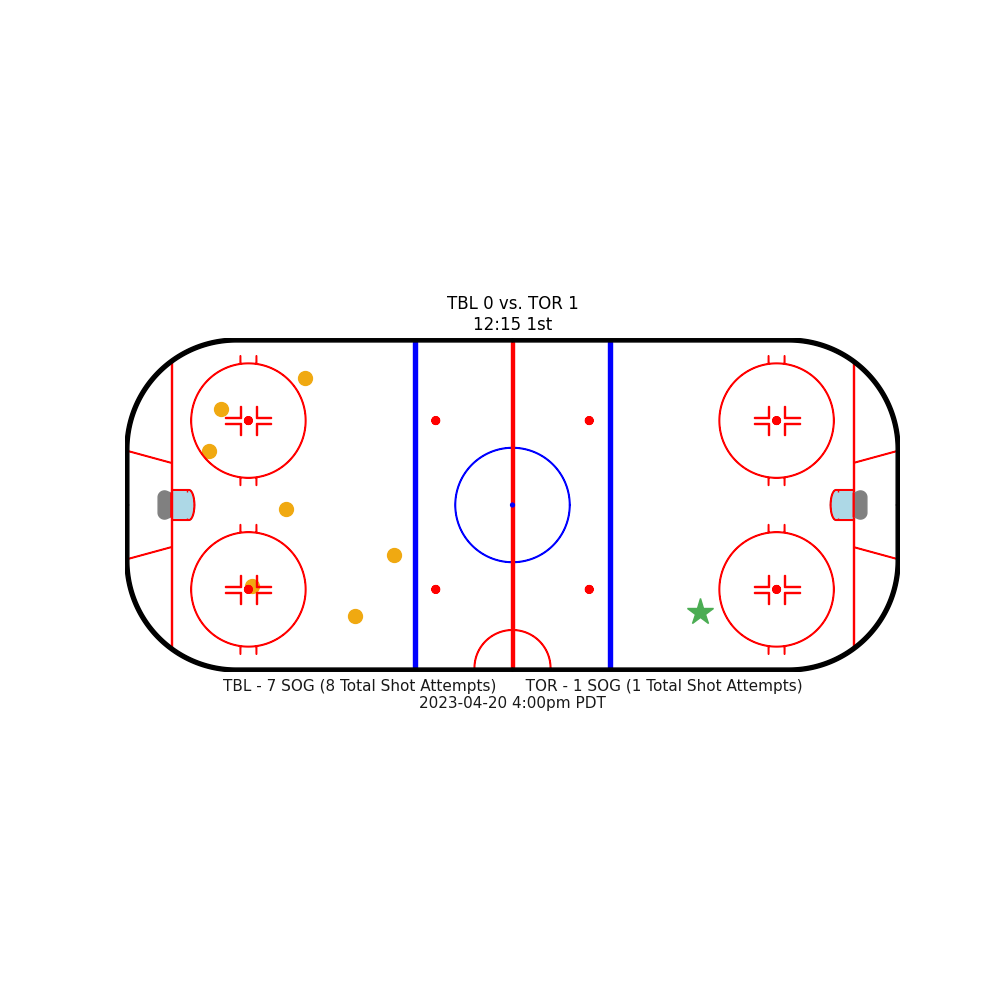
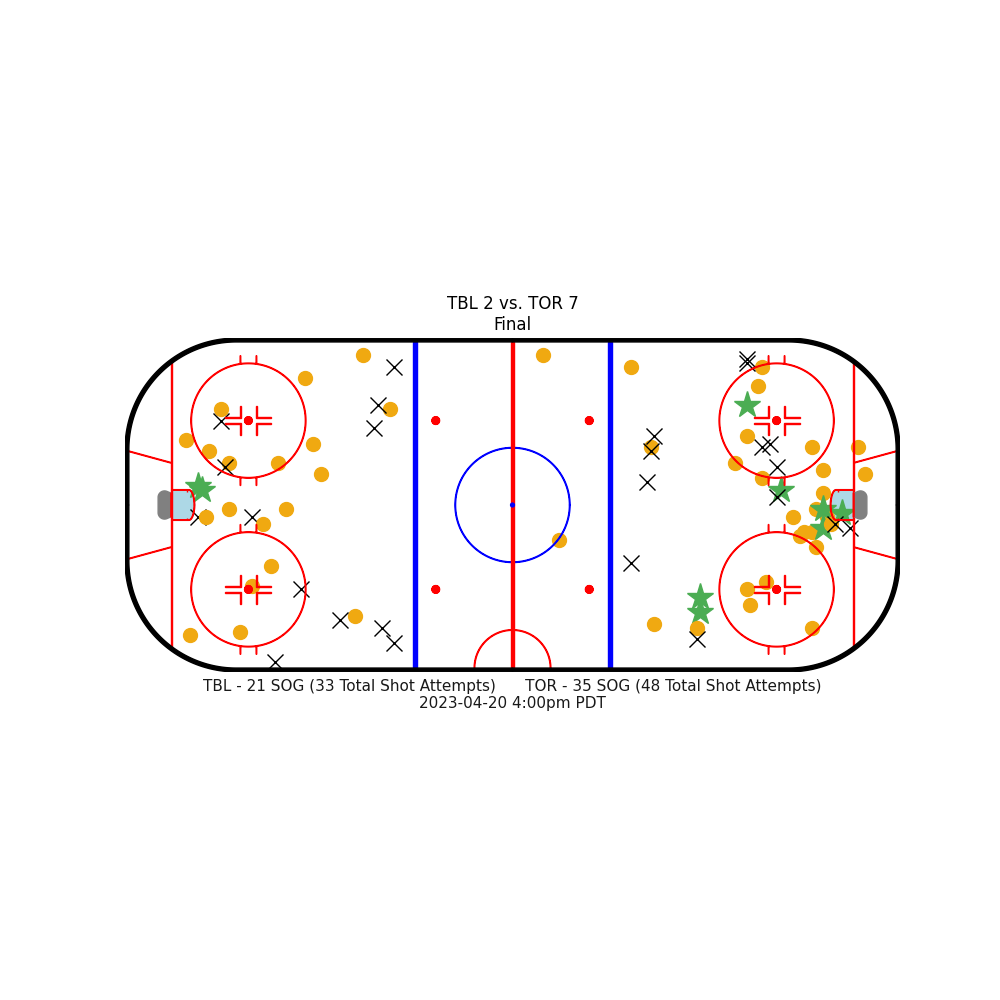
Add Tampa Bay vs Toronto shot chart

diff --git a/examples/Python/NHL API - Generate a shot chart for a specific NHL game ID/NHLShotChart.py b/examples/Python/NHL API - Generate a shot chart for a specific NHL game ID/NHLShotChart.py
@@ -21,7 +21,7 @@ from matplotlib.patches import PathPatch
 # Global settings - Set to False if you do not want to display certain visual elements
 SHOW_GOALS = True
 SHOW_SHOTS_ON_GOAL = True
-SHOW_SHOT_ATTEMPTS = False
+SHOW_SHOT_ATTEMPTS = True
 SHOW_SHOT_ATTEMPTS_ANNOTATION = False
 
 # Charts and graphs
